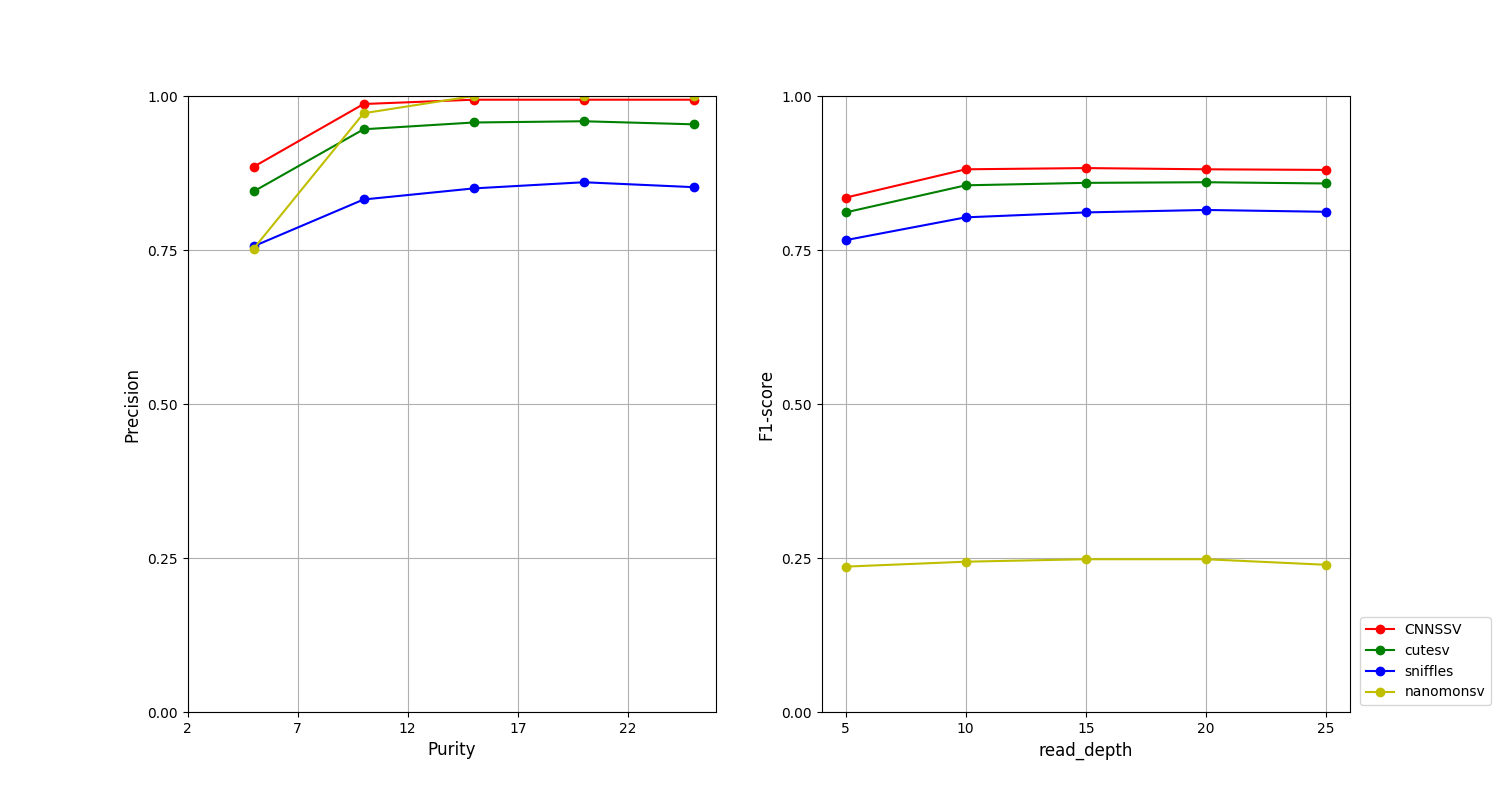
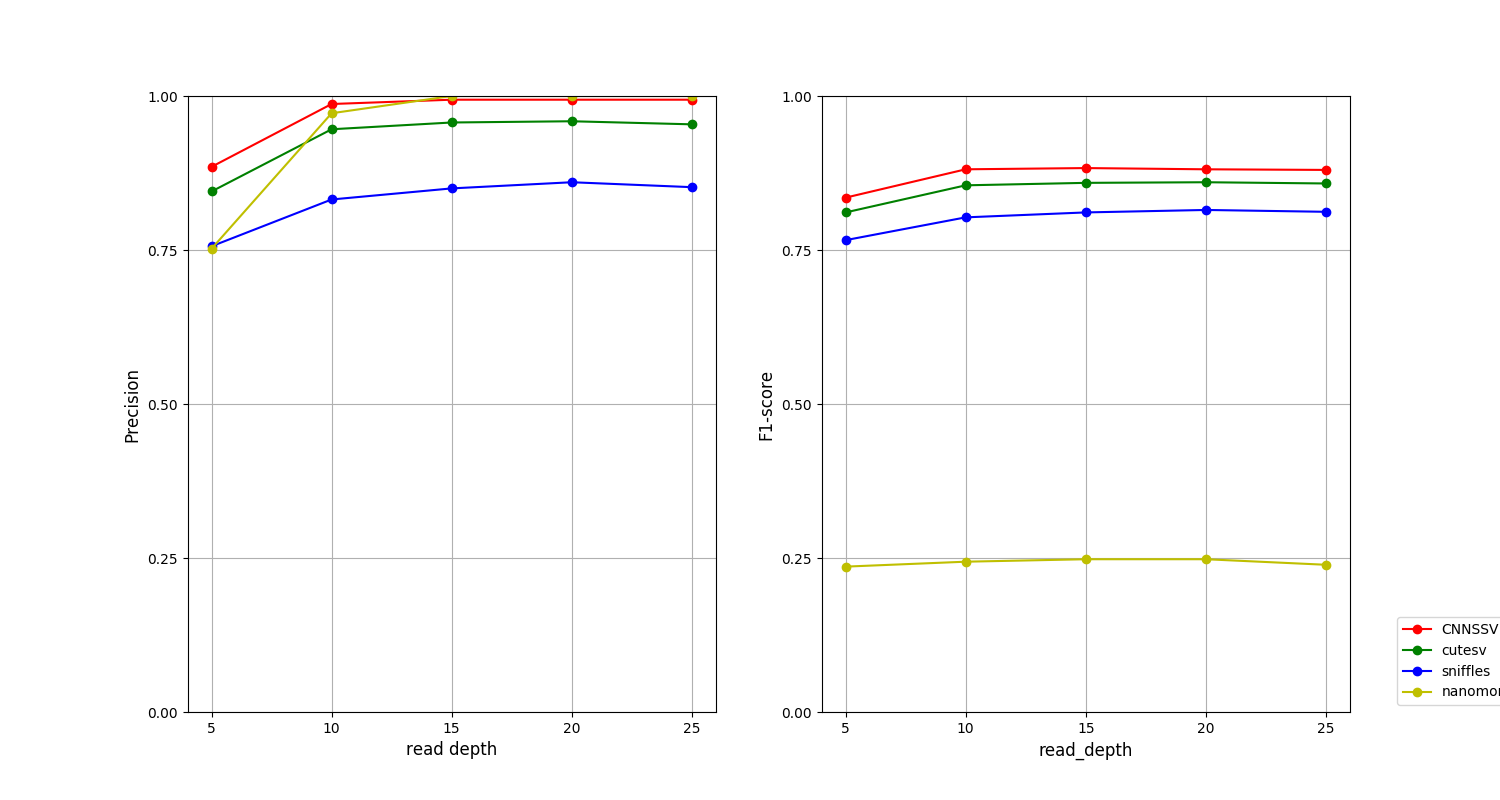
update

diff --git a/test/draw.py b/test/draw.py
@@ -375,7 +375,7 @@ if __name__ == '__main__':
     # # plt.title(')
     # plt.subplot(131)
     # plt.ylim(0.5,1)
-    # plt.xlabel("Purity", fontsize=12)
+    # plt.xlabel("read depth", fontsize=12)
     # plt.ylabel("Recall", fontsize=12)
     # plt.grid()
     # plt.plot(x_read_depth, CNNSSV_recall,'o-',label='CNNSSV',color='r',)
@@ -406,7 +406,7 @@ if __name__ == '__main__':
     # # # plt.close()
     # plt.subplot(133)
     # plt.ylim(0.5, 1)
-    # plt.xlabel("Purity", fontsize=12)
+    # plt.xlabel("read depth", fontsize=12)
     # plt.ylabel("F1-score", fontsize=12)
     # plt.grid()
     # plt.plot(x_read_depth, CNNSSV_f1, 'o-', label='CNNSSV', color='r', )
@@ -427,11 +427,6 @@ if __name__ == '__main__':
     # plt.figure(figsize=(15,8))
     # x_read_depth = [5,10,15,20,25]
     #
-    # CNNSSV_recall = [0.816,0.874,0.916,0.932,0.934,0.936]
-    # cutesv_recall = [0.8,0.87,0.91,0.918,0.932,0.94]
-    # sniffles_recall = [0.798,0.856,0.9,0.92,0.922,0.936]
-    # nanomonsv_recall = [0.136,0.206,0.24,0.264,0.282,0.284]
-
     # CNNSSV_precision = [0.885,0.987,0.994,0.994,0.994]
     # cutesv_precision = [0.845,0.946,0.957,0.959,0.954]
     # sniffles_precision = [0.756,0.832,0.850,0.860,0.852]
@@ -446,7 +441,7 @@ if __name__ == '__main__':
     # # plt.title(')
     # plt.subplot(121)
     # plt.ylim(0.5,1)
-    # plt.xlabel("Purity", fontsize=12)
+    # plt.xlabel("read depth", fontsize=12)
     # plt.ylabel("Precision", fontsize=12)
     # plt.grid()
     # plt.plot(x_read_depth, CNNSSV_precision,'o-',label='CNNSSV',color='r',)
@@ -454,12 +449,12 @@ if __name__ == '__main__':
     # plt.plot(x_read_depth, sniffles_precision,'o-',label='sniffles',color='b')
     # plt.plot(x_read_depth, nanomonsv_precision,'o-',label='nanomonsv',color='y')
     #
-    # plt.xticks(np.arange(2,26,5))
+    # plt.xticks(np.arange(5,26,5))
     # plt.yticks(np.arange(0.00,1.01,0.25))
-    # plt.legend(loc='lower right')
-    # plt.savefig('/Users/duan/Desktop/recall.png')
+    # # plt.legend(loc='lower right')
+    # # plt.savefig('/Users/duan/Desktop/recall.png')
     #
-    # plt.close()
+    # # plt.close()
     # plt.subplot(122)
     # plt.ylim(0.5, 1)
     # plt.xlabel("read_depth", fontsize=12)
@@ -472,24 +467,10 @@ if __name__ == '__main__':
     #
     # plt.xticks(np.arange(5, 26, 5))
     # plt.yticks(np.arange(0.00, 1.01, 0.25))
-    # plt.legend(loc='lower right', bbox_to_anchor=(1.28, 0))
-    # plt.savefig('/Users/duan/Desktop/precision.png')
-    # plt.close()
-    # plt.subplot(133)
-    # plt.ylim(0.5, 1)
-    # plt.xlabel("Purity", fontsize=12)
-    # plt.ylabel("F1-score", fontsize=12)
-    # plt.grid()
-    # plt.plot(x_read_depth, CNNSSV_f1, 'o-', label='CNNSSV', color='r', )
-    # plt.plot(x_read_depth, cutesv_f1, 'o-', label='cutesv', color='g')
-    # plt.plot(x_read_depth, sniffles_f1, 'o-', label='sniffles', color='b')
-    # plt.plot(x_read_depth, nanomonsv_f1, 'o-', label='nanomonsv', color='y')
-    #
-    # plt.xticks(np.arange(10, 36, 5))
-    # plt.yticks(np.arange(0.00, 1.01, 0.25))
-    # # plt.show()
+    # # plt.legend(loc='lower right', bbox_to_anchor=(1.28, 0))
+    # # plt.savefig('/Users/duan/Desktop/precision.png')
     # plt.legend(loc='lower right', bbox_to_anchor=(1.35, 0))
-    # plt.savefig('/Users/duan/Desktop/tumor_vary_depth.png')
+    # plt.savefig('/Users/duan/Desktop/normal_vary_depth.png')
     # # #
     # plt.close()
 
@@ -497,93 +478,93 @@ if __name__ == '__main__':
 # 绘制柱状图，
 
 
-    plt.figure(figsize=(20,10))
-    name_list = ['0.2', '0.5', '0.7']
-    # CNNSSV_recall = [0.3314,0.3550,0.3728]
-    CNNSSV_recall = [0.4619,0.3550,0.3728]
-    cutesv_recall = [0.4675,0.5266,0.5266]
-    sniffles_recall = [0.4024,0.4497,0.4970]
-    nanomonsv_recall = [0.1183,0.1657,0.1657]
-
-    # CNNSSV_precision = [0.3897,0.2995,0.2812]
-    CNNSSV_precision = [0.3314,0.3550,0.3728]
-    cutesv_precision = [0.1759,0.1221,0.1076]
-    sniffles_precision = [0.1475,0.1165,0.1215]
-    nanomonsv_precision = [0.8095,0.6341,0.5417]
-
-    CNNSSV_f1 = [0.3582,0.3249,0.3206]
-    cutesv_f1= [0.2557,0.1983,0.1786]
-    sniffles_f1 = [0.2158,0.1851,0.1952]
-    nanomonsv_f1 = [0.2065,0.2627,0.2537]
-
-    x = list(range(len(CNNSSV_recall)))
-    total_width, n = 0.8, 4
-    width = total_width / n
-    plt.subplot(131)
-    plt.ylim(0, 1)
-    plt.yticks(np.arange(0.00,1.01,0.25))
-    plt.xlabel("Purity", fontsize=12)
-    plt.ylabel("F1-score", fontsize=12)
-    plt.bar(x, CNNSSV_f1, width=width, label='CNNSSV', fc='y')
-    for i in range(len(x)):
-        x[i] = x[i] + width
-    plt.bar(x, cutesv_f1, width=width, label='cutesv', fc='r')
-    for i in range(len(x)):
-        x[i] = x[i] + width
-    plt.bar(x, sniffles_f1, width=width, label='sniffles', tick_label=name_list, fc='g')
-    for i in range(len(x)):
-        x[i] = x[i] + width
-    plt.bar(x, nanomonsv_f1, width=width, label='nanomonsv', fc='b')
+    # plt.figure(figsize=(20,10))
+    # name_list = ['0.2', '0.5', '0.7']
+    # # CNNSSV_recall = [0.3314,0.3550,0.3728]
+    # CNNSSV_recall = [0.4619,0.3550,0.3728]
+    # cutesv_recall = [0.4675,0.5266,0.5266]
+    # sniffles_recall = [0.4024,0.4497,0.4970]
+    # nanomonsv_recall = [0.1183,0.1657,0.1657]
+    #
+    # # CNNSSV_precision = [0.3897,0.2995,0.2812]
+    # CNNSSV_precision = [0.3314,0.3550,0.3728]
+    # cutesv_precision = [0.1759,0.1221,0.1076]
+    # sniffles_precision = [0.1475,0.1165,0.1215]
+    # nanomonsv_precision = [0.8095,0.6341,0.5417]
+    #
+    # CNNSSV_f1 = [0.3582,0.3249,0.3206]
+    # cutesv_f1= [0.2557,0.1983,0.1786]
+    # sniffles_f1 = [0.2158,0.1851,0.1952]
+    # nanomonsv_f1 = [0.2065,0.2627,0.2537]
+    #
+    # x = list(range(len(CNNSSV_recall)))
+    # total_width, n = 0.8, 4
+    # width = total_width / n
+    # plt.subplot(131)
+    # plt.ylim(0, 1)
+    # plt.yticks(np.arange(0.00,1.01,0.25))
+    # plt.xlabel("Purity", fontsize=12)
+    # plt.ylabel("F1-score", fontsize=12)
+    # plt.bar(x, CNNSSV_f1, width=width, label='CNNSSV', fc='y')
     # for i in range(len(x)):
     #     x[i] = x[i] + width
-    # plt.bar(x, manta_f1, width=width, label='manta', fc='c')
-    # plt.legend(loc=2, bbox_to_anchor=(1.05, 1))
-
-    plt.subplot(132)
-    plt.ylim(0, 1)
-    plt.yticks(np.arange(0.00,1.01,0.25))
-    plt.xlabel("Purity", fontsize=12)
-    plt.ylabel("Precision", fontsize=12)
-    plt.bar(x, CNNSSV_precision, width=width, label='CNNSSV', fc='y')
-    for i in range(len(x)):
-        x[i] = x[i] + width
-    plt.bar(x, cutesv_precision, width=width, label='cutesv', fc='r')
-    for i in range(len(x)):
-        x[i] = x[i] + width
-    plt.bar(x, sniffles_precision, width=width, label='sniffles', tick_label=name_list, fc='g')
-    for i in range(len(x)):
-        x[i] = x[i] + width
-    plt.bar(x, nanomonsv_precision, width=width, label='nanomonsv', fc='b')
+    # plt.bar(x, cutesv_f1, width=width, label='cutesv', fc='r')
     # for i in range(len(x)):
     #     x[i] = x[i] + width
-    # plt.bar(x, manta_precision, width=width, label='manta', fc='c')
-
-    # plt.legend(loc='lower right', bbox_to_anchor=(1.35, 0))
-    plt.subplot(133)
-    plt.ylim(0, 1)
-    plt.yticks(np.arange(0.00,1.01,0.25))
-    plt.xlabel("Purity", fontsize=12)
-    plt.ylabel("Recall", fontsize=12)
-    plt.bar(x, CNNSSV_recall, width=width, label='CNNSSV', fc='y')
-    for i in range(len(x)):
-        x[i] = x[i] + width
-    plt.bar(x, cutesv_recall, width=width, label='cutesv',fc='r')
-    for i in range(len(x)):
-        x[i] = x[i] + width
-    plt.bar(x, sniffles_recall, width=width, label='sniffles', tick_label=name_list,fc='g')
-    for i in range(len(x)):
-        x[i] = x[i] + width
-    plt.bar(x, nanomonsv_recall, width=width, label='nanomonsv', fc='b')
+    # plt.bar(x, sniffles_f1, width=width, label='sniffles', tick_label=name_list, fc='g')
     # for i in range(len(x)):
     #     x[i] = x[i] + width
-    # plt.bar(x, manta_recall, width=width, label='manta', fc='c')
-    # plt.legend(loc=2,bbox_to_anchor=(1.05,1))
-    # plt.legend(loc='lower center')
-    plt.legend(loc='lower right', bbox_to_anchor=(1.32, 0))
-
-
-    # plt.show()
-    plt.savefig('/Users/duan/Desktop/NA9238_NA19239.png')
+    # plt.bar(x, nanomonsv_f1, width=width, label='nanomonsv', fc='b')
+    # # for i in range(len(x)):
+    # #     x[i] = x[i] + width
+    # # plt.bar(x, manta_f1, width=width, label='manta', fc='c')
+    # # plt.legend(loc=2, bbox_to_anchor=(1.05, 1))
+    #
+    # plt.subplot(132)
+    # plt.ylim(0, 1)
+    # plt.yticks(np.arange(0.00,1.01,0.25))
+    # plt.xlabel("Purity", fontsize=12)
+    # plt.ylabel("Precision", fontsize=12)
+    # plt.bar(x, CNNSSV_precision, width=width, label='CNNSSV', fc='y')
+    # for i in range(len(x)):
+    #     x[i] = x[i] + width
+    # plt.bar(x, cutesv_precision, width=width, label='cutesv', fc='r')
+    # for i in range(len(x)):
+    #     x[i] = x[i] + width
+    # plt.bar(x, sniffles_precision, width=width, label='sniffles', tick_label=name_list, fc='g')
+    # for i in range(len(x)):
+    #     x[i] = x[i] + width
+    # plt.bar(x, nanomonsv_precision, width=width, label='nanomonsv', fc='b')
+    # # for i in range(len(x)):
+    # #     x[i] = x[i] + width
+    # # plt.bar(x, manta_precision, width=width, label='manta', fc='c')
+    #
+    # # plt.legend(loc='lower right', bbox_to_anchor=(1.35, 0))
+    # plt.subplot(133)
+    # plt.ylim(0, 1)
+    # plt.yticks(np.arange(0.00,1.01,0.25))
+    # plt.xlabel("Purity", fontsize=12)
+    # plt.ylabel("Recall", fontsize=12)
+    # plt.bar(x, CNNSSV_recall, width=width, label='CNNSSV', fc='y')
+    # for i in range(len(x)):
+    #     x[i] = x[i] + width
+    # plt.bar(x, cutesv_recall, width=width, label='cutesv',fc='r')
+    # for i in range(len(x)):
+    #     x[i] = x[i] + width
+    # plt.bar(x, sniffles_recall, width=width, label='sniffles', tick_label=name_list,fc='g')
+    # for i in range(len(x)):
+    #     x[i] = x[i] + width
+    # plt.bar(x, nanomonsv_recall, width=width, label='nanomonsv', fc='b')
+    # # for i in range(len(x)):
+    # #     x[i] = x[i] + width
+    # # plt.bar(x, manta_recall, width=width, label='manta', fc='c')
+    # # plt.legend(loc=2,bbox_to_anchor=(1.05,1))
+    # # plt.legend(loc='lower center')
+    # plt.legend(loc='lower right', bbox_to_anchor=(1.32, 0))
+    #
+    #
+    # # plt.show()
+    # plt.savefig('/Users/duan/Desktop/NA9238_NA19239.png')
 
 
 
